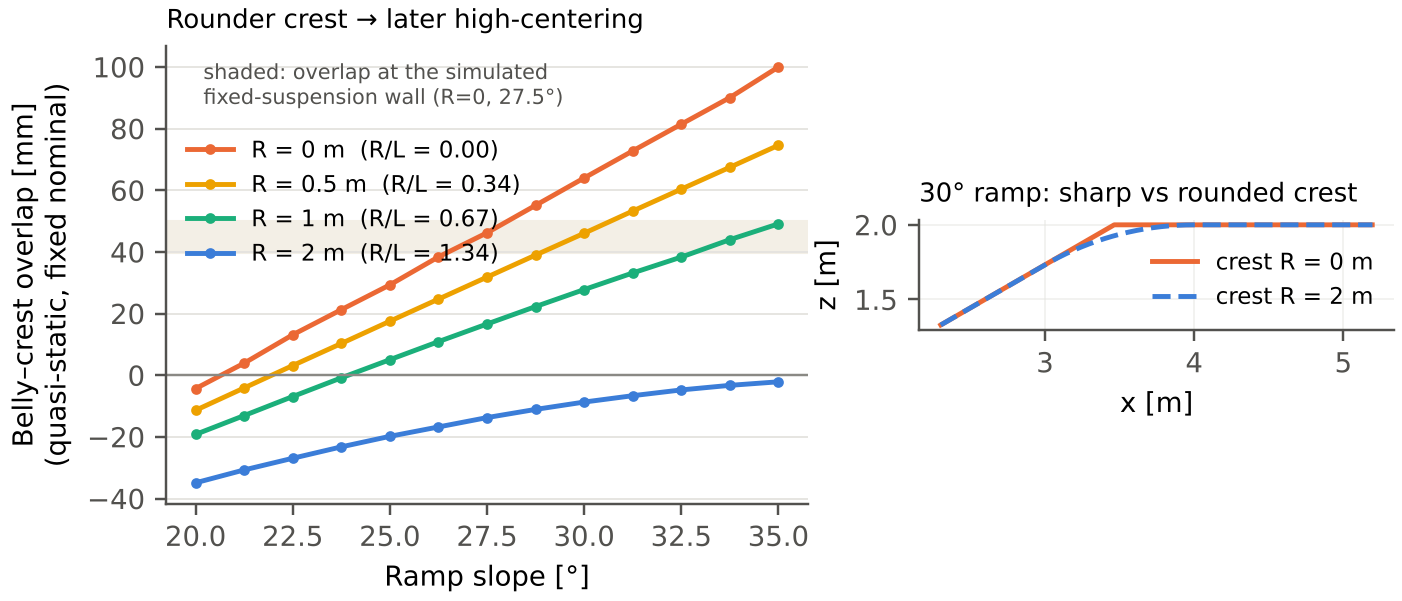
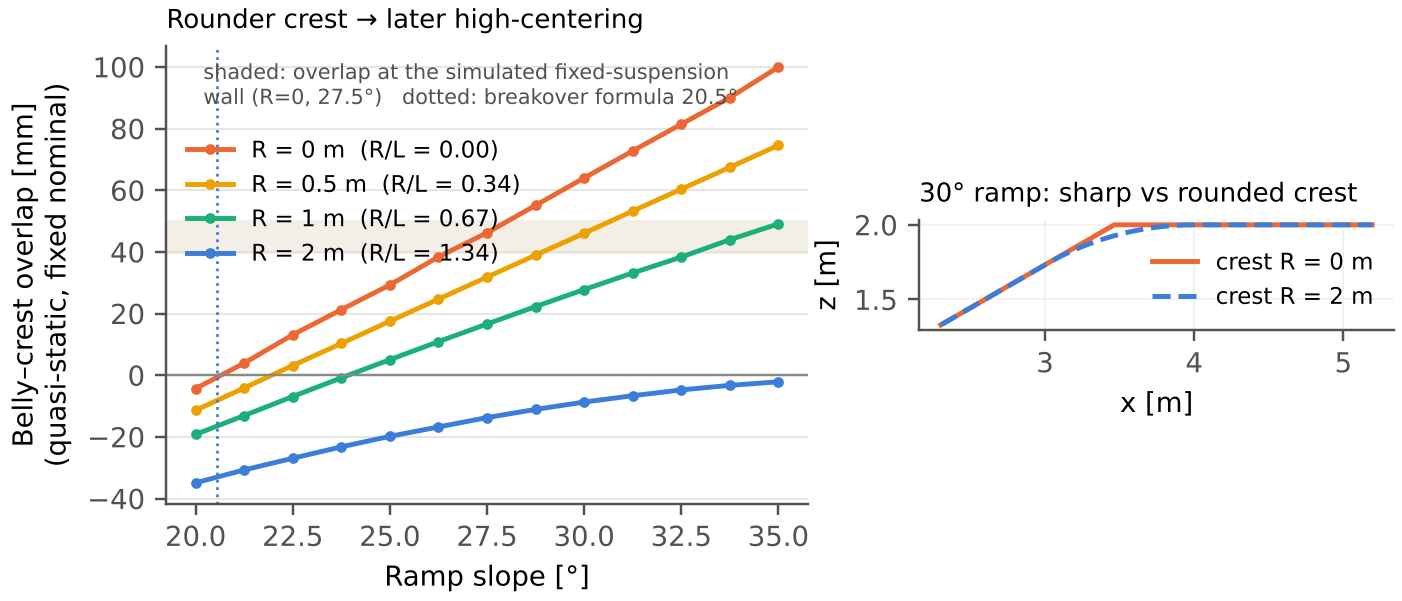
Crest note: breakover-angle comparison, model validation, predicted theta x R/L map, defense items
Claude-Session: https://claude.ai/code/session_01QmcofTmHzCaGBM6kLiAEu1

Changed region(s): [[0.1227, 0.0899, 0.5214, 0.1797]]

diff --git a/crest-geometry.html b/crest-geometry.html
@@ -74,6 +74,7 @@
     <ul>
       <li>출발점: <a href="active-suspension.html">이전 노트</a>에서 고정 서스펜션은 30° 경사의 <strong>날카로운 정상 모서리</strong>에 차체 하부가 걸려 멈췄습니다(성공률 0.8 %). 그 실험의 크레스트는 반경 0인 모서리 하나뿐이었습니다.</li>
       <li>기하 예측(준정적, 아래 03): 크레스트 반경 R이 0 → 0.5 → 1 m로 커지면 배 걸림 경사가 <strong>약 27.5° → 30° → 35°</strong>로 밀려나고, R = 2 m(휠베이스의 1.3배)에서는 35°까지 <strong>차체가 크레스트에 닿지 않습니다</strong>.</li>
+      <li>기존 지표와의 관계: 자동차의 <strong>브레이크오버 각</strong>(2·arctan(2h/L))은 날카로운 꼭대기에서 차체가 <strong>처음 닿는 각</strong>입니다. 이 로버는 20.5°인데, 시뮬레이션에서 실제로 멈춘 경사는 27.5°였습니다. 이 연구는 브레이크오버 각이 말해 주지 않는 두 가지, <strong>실제 멈춤 한계</strong>와 <strong>둥근 크레스트</strong>를 다룹니다.</li>
       <li>그래서 기대하는 결과는 "능동 서스펜션이 필요한 영역"의 지도입니다. 경로 계획이 크레스트 형상을 보고 "고정 자세로 충분 / 능동 자세 전환 필요 / 마찰 한계로 불가"를 나눌 수 있게 하는 것이 목표입니다.</li>
       <li>상태: 기하 예측까지 완료, 시뮬레이션 실험은 진행 예정입니다. 아래 수치 중 시뮬레이션 실측은 이전 노트의 R = 0 결과뿐입니다.</li>
     </ul>
@@ -83,6 +84,17 @@
   <p>이전 실험에서 30° 실패의 원인은 견인력이 아니라 <strong>기하</strong>였습니다. 고정 서스펜션의 차체-지면 접촉 비율은 31 %, 학습 정책은 0 %였고, 35° 이상에서 실패한 이유(마찰 한계 arctan 0.70 = 35.0°)와는 성격이 달랐습니다.</p>
   <p>원인이 기하라면 바꿔 봐야 할 변수도 기하입니다. 그런데 지금까지의 실험은 4 m 직선 경사로와 날카로운 정상 모서리 <strong>한 가지 형상</strong>만 썼습니다. 실제 지형의 볼록 꺾임부는 날카로울 수도, 둥글 수도 있습니다. 크레스트가 충분히 둥글면 고정 서스펜션도 배가 걸리지 않을 수 있고, 그렇다면 능동 서스펜션의 이득은 특정 조건에서만 존재합니다.</p>
   <div class="aside"><p>이 노트의 기여는 "능동 서스펜션을 강화학습으로 제어했다"가 아닙니다. 그건 이미 여러 연구가 했습니다. 기여는 <strong>"배 걸림을 정하는 기하 변수(경사 θ, 크레스트 반경 R, 지상고 h, 휠베이스 L)를 분리하고, 능동 자세 전환이 필요한 영역을 지도로 만드는 것"</strong>입니다.</p></div>
+
+  <h3>기존 지표: 브레이크오버 각과 무엇이 다른가</h3>
+  <p>오프로드 차량에는 이미 배 걸림 지표가 있습니다. <strong>브레이크오버 각</strong>은 앞뒤 타이어 접지점에서 차체 중앙 최저점까지 그은 두 선이 이루는, 차체 아래로 지나갈 수 있는 봉우리의 최대 각도이고(<a href="https://cars-data.com/en/car-glossary/breakover-angle/">cars-data</a>), 근사식은 2 × arctan(2 × 지상고 / 휠베이스)입니다(<a href="https://www.jdpower.com/cars/shopping-guides/what-are-approach-breakover-and-departure-angles">J.D. Power</a>). 정의의 원 출처는 SAE 차량 치수 표준(J689, 현재 J1100)입니다.</p>
+  <div class="table-wrap"><table>
+    <tr><th></th><th>브레이크오버 각</th><th>이 연구</th></tr>
+    <tr><td>꼭대기 형상</td><td>날카로운 꼭대기(R = 0)만</td><td>크레스트 반경 R을 변수로 (R/L = 0~1.3)</td></tr>
+    <tr><td>판정 기준</td><td>처음 닿는 순간(정적)</td><td>실제로 멈추는 한계(시뮬레이션으로 보정한 겹침 40~50 mm)</td></tr>
+    <tr><td>이 로버의 값</td><td class="n">20.5°</td><td class="n">실제 벽 27.5° (약 7° 차이)</td></tr>
+    <tr><td>자세 변화</td><td>고정 차량 하나의 값</td><td>능동 자세 전환이 넓히는 영역을 지도에 표시</td></tr>
+  </table></div>
+  <p>차량 쪽 자료도 공표 브레이크오버 값은 정적 이상값이며 서스펜션 굴신과 관성이 실제 상황을 바꾼다고 적고 있습니다(<a href="https://cars-data.com/en/car-glossary/breakover-angle/">cars-data</a>). 20.5°와 27.5°의 차이가 바로 그 부분이고, 이 연구는 그 차이를 수치로 다룹니다.</p>
 
   <h2><span class="no">02</span>용어</h2>
   <dl class="terms">
@@ -94,20 +106,26 @@
 
   <h2><span class="no">03</span>기하 예측 — 둥글수록 늦게 걸린다</h2>
   <p>로버를 바퀴 두 개(반경 0.215 m)와 그 사이 강체 차체로 단순화하고, 차체 하부 돌출부(평지 지상고 0.135 m)가 휠베이스 중앙에 있다고 가정해 경사로를 따라 준정적으로 이동시켰습니다. 각 위치에서 차체 하부가 지면 아래로 들어가는 깊이(겹침)의 최댓값을 계산했습니다.</p>
+  <div class="aside"><p><strong>모델 검증:</strong> R = 0에서 이 모델이 계산한 "처음 닿는 경사"는 <strong>20.7°</strong>로, 브레이크오버 각 공식값 <strong>20.5°</strong>와 0.2° 안에서 일치합니다. 공식은 바퀴를 점으로 보고 모델은 바퀴 반경을 넣었으므로 작은 차이는 예상 범위입니다. 그다음 기준(멈춤 = 겹침 40~50 mm)은 R = 0 시뮬레이션 결과 하나로만 맞췄고, 나머지 R은 예측입니다.</p></div>
   <figure class="fig">
     <img src="assets/crest-geom-prediction.png" alt="크레스트 반경별 배 걸림 겹침 예측">
     <figcaption><b>Fig. C1</b> 왼쪽: 크레스트 반경 R별, 경사에 따른 차체 하부와 크레스트의 최대 겹침(고정 기본 자세, 준정적 2-D). 회색 띠는 R = 0에서 시뮬레이션이 실제로 무너진 경사(27.5°, 성공률 38.6 %)의 겹침 크기(약 40~50 mm). 오른쪽: 30° 경사로의 날카로운 크레스트와 R = 2 m 크레스트 단면.</figcaption>
   </figure>
   <div class="table-wrap"><table>
     <tr><th>크레스트 반경 R (R/L)</th><th>처음 닿는 경사</th><th>겹침 40~50 mm에 이르는 경사 (예상 벽)</th><th>35°에서의 겹침</th></tr>
-    <tr><td>0 m (0)</td><td class="n">약 21°</td><td class="n">약 27.5° (시뮬레이션 기준)</td><td class="n">100 mm</td></tr>
-    <tr><td>0.5 m (0.34)</td><td class="n">약 22°</td><td class="n">약 30°</td><td class="n">75 mm</td></tr>
-    <tr><td>1 m (0.67)</td><td class="n">약 24°</td><td class="n">약 35°</td><td class="n">49 mm</td></tr>
-    <tr class="hl"><td>2 m (1.34)</td><td class="n">35°까지 닿지 않음</td><td class="n">없음</td><td class="n">−2 mm</td></tr>
+    <tr><td>0 m (0)</td><td class="n">20.7° (공식 20.5°)</td><td class="n">26.6~28.1° (시뮬레이션 27.5°)</td><td class="n">100 mm</td></tr>
+    <tr><td>0.5 m (0.34)</td><td class="n">22.0°</td><td class="n">28.9~30.7°</td><td class="n">75 mm</td></tr>
+    <tr><td>1 m (0.67)</td><td class="n">23.9°</td><td class="n">32.8~35.2°</td><td class="n">49 mm</td></tr>
+    <tr><td>1.25 m (0.84)</td><td class="n">25.3°</td><td class="n">36.1~39.3° (마찰 한계 위)</td><td class="n">—</td></tr>
+    <tr class="hl"><td>2 m (1.34)</td><td class="n">37.4° (마찰 한계 위)</td><td class="n">없음</td><td class="n">−2 mm</td></tr>
   </table></div>
+  <figure class="fig">
+    <img src="assets/crest-map-prediction.png" alt="경사 x 크레스트 반경 예측 지도">
+    <figcaption><b>Fig. C2</b> 예측 지도(고정 기본 자세, 준정적). 초록: 차체가 닿지 않음. 노랑: 닿지만 고정 서스펜션으로 오름. 빨강: 고정 자세는 멈추고 능동 자세 전환이 필요한 영역. 회색: 마찰 한계(35°) 위라 어떤 자세로도 불가. 초록 선은 브레이크오버 각을 둥근 크레스트로 일반화한 것이고, 파란 별(공식 20.5°)과 R = 0에서 일치합니다. 검은 사각형은 시뮬레이션 실측 벽(27.5°).</figcaption>
+  </figure>
   <ul>
-    <li><strong>읽는 법:</strong> 차체가 크레스트에 살짝 닿는 것만으로는 멈추지 않습니다(R = 0에서 처음 닿는 21°를 넘어 25°에서도 93.8 % 성공). 시뮬레이션에서 성공률이 무너진 27.5°의 겹침이 약 40~50 mm였으므로, 이 값을 "벽"의 기준으로 썼습니다.</li>
-    <li><strong>예측:</strong> R = 1 m 정도면 배 걸림 벽이 마찰 한계(35°)까지 밀려나 <strong>고정 서스펜션으로도 마찰 한계까지 오를 수 있고</strong>, R = 2 m이면 배 걸림 자체가 생기지 않습니다.</li>
+    <li><strong>읽는 법:</strong> 차체가 크레스트에 살짝 닿는 것만으로는 멈추지 않습니다(R = 0에서 처음 닿는 20.7°를 넘어 25°에서도 93.8 % 성공). 시뮬레이션에서 성공률이 무너진 27.5°의 겹침이 약 40~50 mm였으므로, 이 값을 "벽"의 기준으로 썼습니다.</li>
+    <li><strong>예측:</strong> R ≈ 1.07 m(R/L ≈ 0.72)에서 예상 벽이 35°와 만납니다. 즉 R = 1 m 정도면 배 걸림 벽이 마찰 한계(35°)까지 밀려나 <strong>고정 서스펜션으로도 마찰 한계까지 오를 수 있고</strong>, R = 2 m이면 배 걸림 자체가 생기지 않습니다.</li>
     <li><strong>한계:</strong> 2-D 준정적 모델이고, 서스펜션 순응·바퀴 미끄러짐·관성은 없습니다. 돌출부의 앞뒤 위치도 가정값입니다. 그래서 이 표는 시뮬레이션으로 확인할 <strong>가설</strong>이지 결과가 아닙니다.</li>
   </ul>
 
@@ -134,6 +152,7 @@
   <div class="table-wrap"><table>
     <tr><th>위험</th><th>왜 위험한가</th><th>대응</th></tr>
     <tr><td>"둥글면 쉬운 건 당연하다"</td><td>방향만 보이면 기여가 없어 보임</td><td>방향이 아니라 <strong>전환 반경(R*)을 수치로</strong> 제시하고, 기하 예측(Fig. C1)과 시뮬레이션이 맞는지 비교. 예측이 맞으면 설계식이 되고, 틀리면 그 차이가 분석 거리</td></tr>
+    <tr><td>"브레이크오버 각으로 이미 알려진 것"</td><td>배 걸림 기하 지표가 이미 표준에 있음</td><td>서론에서 먼저 정의·인용하고, 모델이 R = 0에서 공식값(20.5°)을 재현함을 검증으로 제시. 기여를 공식이 다루지 않는 <strong>실제 멈춤 한계(+7°)</strong>와 <strong>크레스트 반경</strong>으로 한정</td></tr>
     <tr><td>정책 일반화 문제</td><td>날카로운 크레스트로만 학습한 정책은 둥근 크레스트가 처음 보는 지형</td><td>지도의 주 근거는 학습이 없는 고정 자세. PPO는 R을 섞어 재학습해서 비교</td></tr>
     <tr><td>시드 의존성</td><td>35°에서 PPO 성공률이 시드마다 35~88 %로 갈렸음</td><td>PPO는 시드 3개 이상, 평균 ± 편차 보고. 결론은 고정 자세 결과에 기대고 PPO는 보조로</td></tr>
     <tr><td>실제 지형 형상 근거 부족</td><td>"실제 크레이터 테두리가 R = 몇 m냐"를 묻기 쉬움</td><td>절대값 대신 <strong>R/L(휠베이스 대비)</strong>로 결과를 제시해, 지형 자료가 생기면 바로 대입할 수 있게 함</td></tr>
@@ -145,19 +164,20 @@
   <p>ARS 심사 방식(저널 적합성 · 방법론 · 도메인 · 관점 · Devil's Advocate)으로 계획 단계를 점검했습니다. 실험 전이라 증거 항목은 계획 기준으로 판단했습니다.</p>
   <div class="table-wrap"><table>
     <tr><th>기준</th><th>판정</th><th>근거</th></tr>
-    <tr><td>독창성</td><td class="n">MEETS</td><td>기존 연구는 일정한 경사나 단일 경사로 형상만 다룸. 크레스트 반경을 변수로 둔 배 걸림 지도는 찾지 못함</td></tr>
+    <tr><td>독창성</td><td class="n">MEETS</td><td>기존 지표(브레이크오버 각)는 날카로운 꼭대기·첫 접촉만 정의하고, 기존 로버 연구는 일정한 경사나 단일 경사로 형상만 다룸. 크레스트 반경과 실제 멈춤 한계를 함께 다룬 지도는 찾지 못함</td></tr>
     <tr><td>방법 엄밀성</td><td class="n">MEETS</td><td>학습 없는 고정 자세가 주 근거, 기하 예측과 시뮬레이션의 교차 확인, 조건당 832 에피소드</td></tr>
     <tr><td>증거 충분성</td><td class="n">PARTLY_MEETS</td><td>실험 전. R 4단계 × 경사 5단계면 지도는 그려지지만 전환점 근처 해상도는 추가 조건이 필요할 수 있음</td></tr>
     <tr><td>논리 일관성</td><td class="n">MEETS</td><td>"30° 실패 원인은 기하 → 기하 변수를 바꿔 본다"로 질문이 이전 결과에서 바로 이어짐</td></tr>
     <tr><td>중요성·영향</td><td class="n">MEETS</td><td>경로 계획에 쓸 수 있는 형태(θ × R/L 지도)로 결과가 나옴</td></tr>
     <tr><td>국내 학회 적합성</td><td class="n">MEETS</td><td>시뮬레이션 기반 분석 + 설계 지침, 2~4쪽 분량에 맞음</td></tr>
   </table></div>
-  <p><strong>판정:</strong> 실험이 계획대로 끝나면 <strong>Minor revision 수준에서 게재 가능</strong>으로 봅니다. 가장 강한 반론은 "둥글면 쉬운 건 당연하다"이고, 답은 전환 반경 R*의 수치와 기하 예측과의 일치 여부입니다. 실험 결과가 기하 예측과 크게 다르면 논문의 중심이 "왜 다른가(동적 효과)"로 옮겨 가야 합니다.</p>
+  <p><strong>판정:</strong> 실험이 계획대로 끝나면 <strong>Minor revision 수준에서 게재 가능</strong>으로 봅니다. 가장 강한 반론은 "브레이크오버 각으로 이미 아는 것 아니냐"와 "둥글면 쉬운 건 당연하다"이고, 답은 ① 공식(첫 접촉 20.5°)과 실제 멈춤(27.5°)의 차이, ② 전환 반경 R*(예측 R/L ≈ 0.72)의 수치, ③ 기하 예측과 시뮬레이션의 일치 여부입니다. 실험 결과가 기하 예측과 크게 다르면 논문의 중심이 "왜 다른가(동적 효과)"로 옮겨 가야 합니다.</p>
 
   <h2><span class="no">07</span>예상 질문과 답변</h2>
   <div class="table-wrap"><table>
     <tr><th>질문</th><th>답</th></tr>
     <tr><td>둥글면 쉬운 건 당연하지 않나?</td><td>방향은 당연하지만, <strong>얼마나 둥글어야 하는지</strong>는 알려져 있지 않았습니다. 이 연구는 그 전환 반경을 R/L로 제시하고 기하 모델로 예측까지 합니다.</td></tr>
+    <tr><td>브레이크오버 각이랑 뭐가 다른가?</td><td>브레이크오버 각은 날카로운 꼭대기에서 <strong>처음 닿는 각</strong>입니다(이 로버 20.5°). 실제로 멈춘 것은 27.5°였고, 둥근 크레스트는 공식에 아예 없습니다. 이 연구의 모델은 R = 0에서 공식값을 재현하면서 그 두 가지로 확장합니다.</td></tr>
     <tr><td>강화학습이 왜 필요한가?</td><td>지도의 주 근거는 학습이 없는 고정 자세입니다. PPO는 "자세를 바꿀 수 있으면 영역이 얼마나 넓어지는가"를 보는 상한 기준으로만 씁니다.</td></tr>
     <tr><td>실제 크레이터 테두리는 R이 얼마인가?</td><td>결과를 휠베이스 대비 R/L로 줬기 때문에, 지형 자료에서 크레스트 곡률을 재면 바로 대입할 수 있습니다. 실제 분포 조사는 이 논문의 범위 밖입니다.</td></tr>
     <tr><td>강체 지형인데 실제와 같나?</td><td>배 걸림은 차체와 지형의 기하로 정해지는 현상이라 강체에서도 성립합니다. 다만 침하가 있으면 지상고가 줄어 벽이 낮아질 수 있으므로 결과를 필요조건으로 씁니다.</td></tr>
@@ -165,17 +185,26 @@
     <tr><td>로버가 바뀌면?</td><td>L(휠베이스), h(지상고), r(휠 반경)만 바꾸면 같은 기하 모델로 다시 예측할 수 있습니다.</td></tr>
   </table></div>
 
-  <h2><span class="no">08</span>일정</h2>
+  <h2><span class="no">08</span>논문에 넣을 것 (방어용)</h2>
+  <ul>
+    <li><strong>서론:</strong> 브레이크오버 각의 정의와 근사식을 SAE 표준과 함께 인용하고, "첫 접촉 각은 등판 한계가 아니며 둥근 크레스트를 다루지 않는다"는 두 빈칸으로 연구 질문을 세운다.</li>
+    <li><strong>방법:</strong> 2-D 준정적 모델의 가정(바퀴 반경, 돌출부 위치, 강체)과 보정 절차(R = 0 시뮬레이션 하나로 겹침 기준 보정)를 명시한다.</li>
+    <li><strong>검증:</strong> 모델의 R = 0 첫 접촉각 20.7° vs 공식 20.5°, 예측 벽 vs R = 0 시뮬레이션 27.5°.</li>
+    <li><strong>결과 그림:</strong> Fig. C2 형태의 지도에 시뮬레이션 실측점(고정 기본, heave 1.0, PPO)을 겹쳐서, 예측과 실측의 차이를 바로 보이게 한다.</li>
+    <li><strong>한계:</strong> 강체 지형, 2-D, 돌출부 위치 가정, PPO 시드 의존성. 결론은 "필요조건"으로 쓴다.</li>
+  </ul>
+
+  <h2><span class="no">09</span>일정</h2>
   <ol>
     <li><strong>11/14</strong> — 둥근 크레스트 지형 생성 코드 수정, R = 0에서 이전 결과 재현 확인</li>
     <li><strong>11/14 밤</strong> — 고정 기본·heave 1.0 평가 40회 (약 3.5시간)</li>
     <li><strong>11/15~16</strong> — PPO 크레스트 반경 혼합 재학습 시드 3개 + 평가</li>
-    <li><strong>11/17~19</strong> — 지도 작성, 기하 예측과 비교, 전환점 근처 추가 조건</li>
+    <li><strong>11/17~19</strong> — Fig. C2에 실측점 겹치기, 기하 예측과 비교, 전환점(R/L ≈ 0.7) 근처 추가 조건</li>
     <li><strong>11/20~25</strong> — 원고 작성과 지도교수 검토 · <strong>11/26</strong> 제출</li>
   </ol>
 
   <hr class="hr">
-  <p class="foot">03의 수치는 2-D 준정적 기하 계산이며, R = 0의 27.5° 벽만 Isaac Sim 5.0 + Isaac Lab 시뮬레이션 실측값입니다. 실물 로버·토양 시험 결과가 아닙니다. 마지막 업데이트 2026.11.13 (계획 단계).</p>
+  <p class="foot">03의 수치는 2-D 준정적 기하 계산이며, R = 0의 27.5° 벽만 Isaac Sim 5.0 + Isaac Lab 시뮬레이션 실측값입니다. 실물 로버·토양 시험 결과가 아닙니다. 출처: 브레이크오버 각 정의·근사식 — <a href="https://cars-data.com/en/car-glossary/breakover-angle/">cars-data.com</a>, <a href="https://www.jdpower.com/cars/shopping-guides/what-are-approach-breakover-and-departure-angles">J.D. Power</a> (원 정의: SAE J689 / J1100). 마지막 업데이트 2026.11.13 (계획 단계, 브레이크오버 각 비교 추가).</p>
 </div>
 </body>
 </html>
